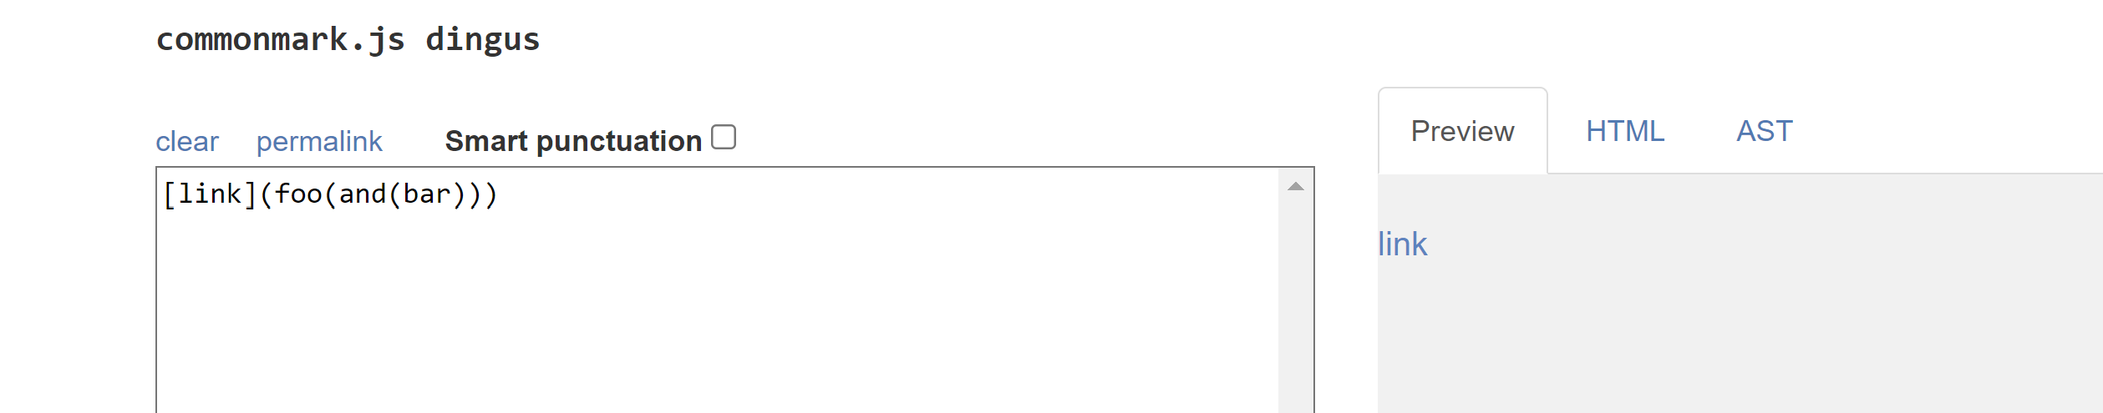
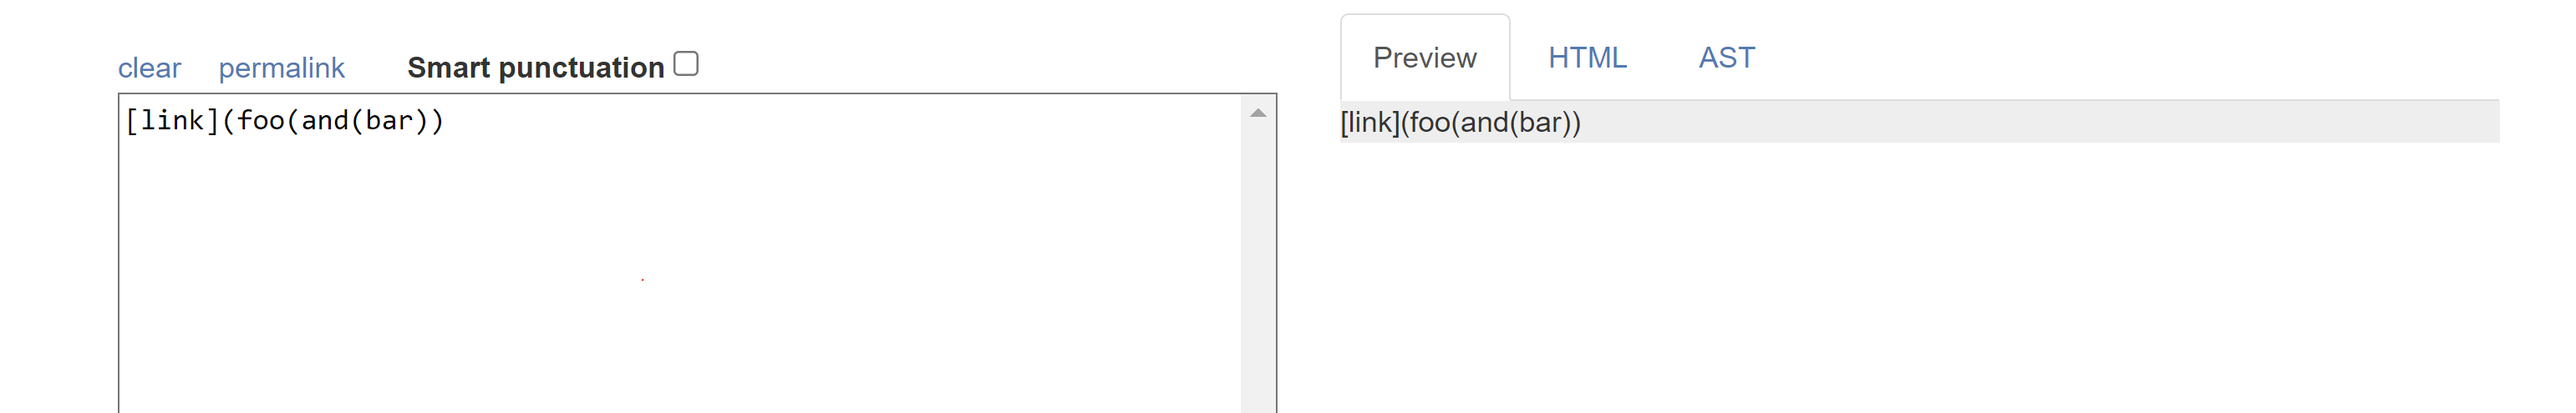
update img

diff --git a/lab-report-5-week-10.md b/lab-report-5-week-10.md
@@ -39,5 +39,5 @@ If a link is provided where there is a space somewhere in the parenthesis () the
 [link to test file 496.md](https://github.com/nidhidhamnani/markdown-parser/blob/main/test-files/496.md)
 For this test file you can see the output of my implementation on the left and the provided implementation on the right.
 ![img](/assets/images/vimdiff3.png)
-My implementation provides a link which is correct if you look at the rendered output of the contents of the testfile on common mark
+My implementation provides a link which is incorrect if you look at the rendered output of the contents of the testfile on common mark you can see that no links are rendered.
 ![img](/assets/images/commonmark3.png)
